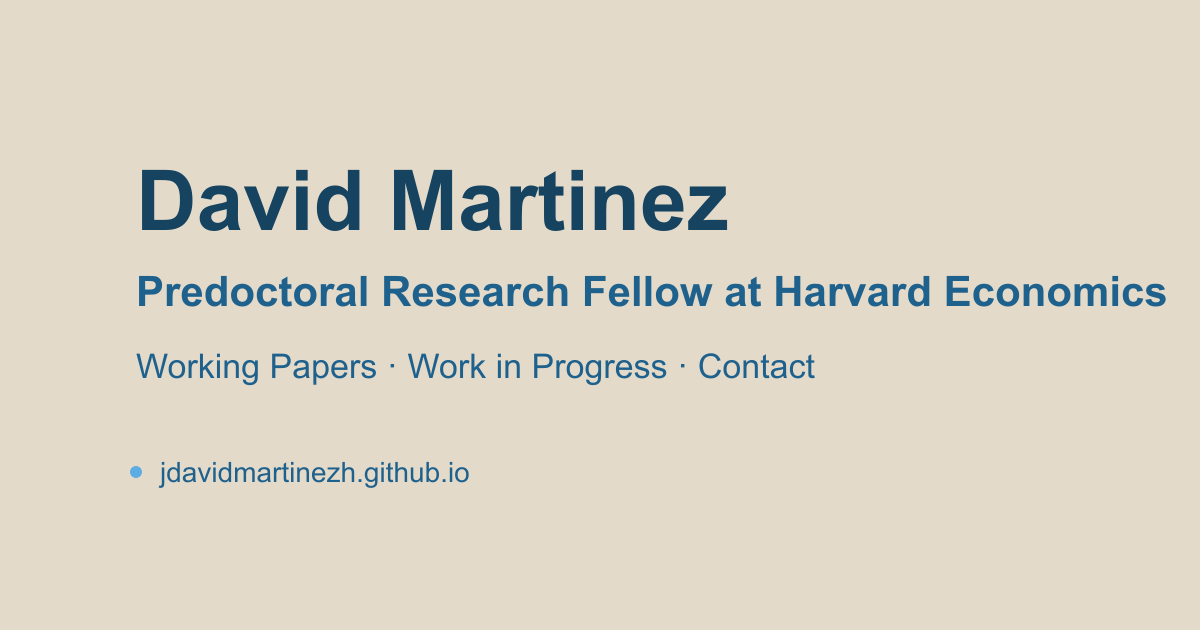
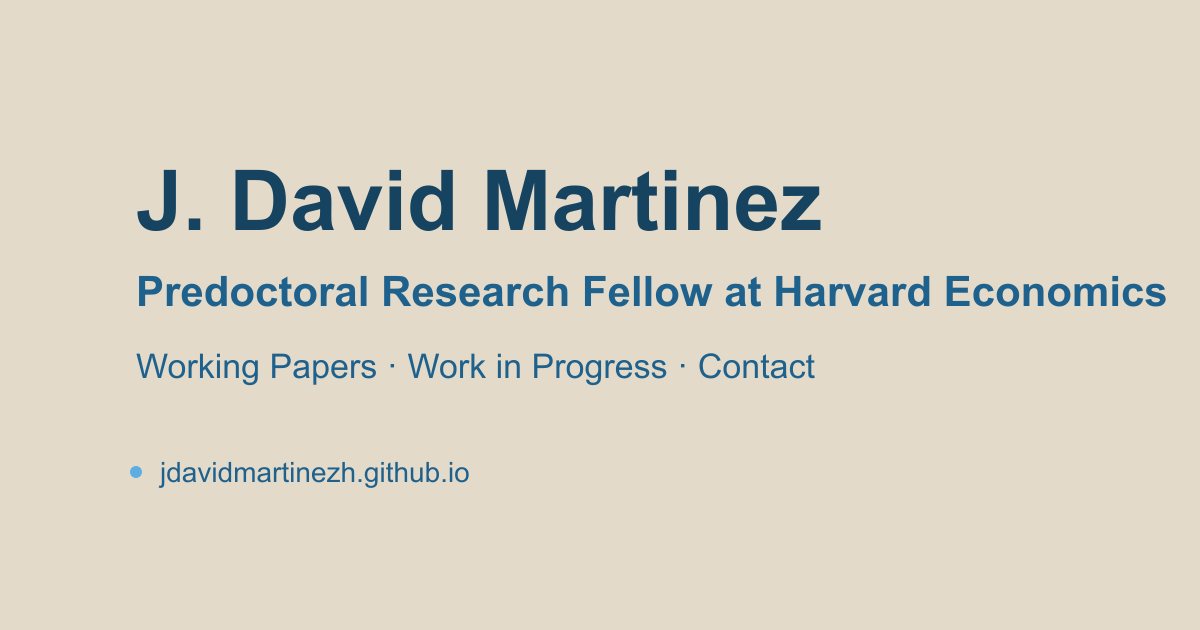
Refine profile content and add AMC figure to WIP

Changed region(s): [[0.0925, 0.2714, 0.6783, 0.3921]]

diff --git a/index.html b/index.html
@@ -5,15 +5,15 @@
     <meta name="viewport" content="width=device-width, initial-scale=1" />
     <meta
       name="description"
-      content="David Martinez, predoctoral research fellow at Harvard Economics. Working papers, work in progress, and contact."
+      content="J. David Martinez, predoctoral research fellow at Harvard Economics. Working papers, work in progress, and contact."
     />
-    <title>David Martínez</title>
+    <title>⛰ J. David Martínez</title>
     <link rel="canonical" href="https://jdavidmartinezh.github.io/" />
     <meta name="theme-color" content="#e3dac9" />
 
     <meta property="og:type" content="website" />
     <meta property="og:url" content="https://jdavidmartinezh.github.io/" />
-    <meta property="og:title" content="David Martínez" />
+    <meta property="og:title" content="J. David Martínez" />
     <meta
       property="og:description"
       content="Predoctoral Research Fellow at Harvard Economics. Working papers, work in progress, and contact."
@@ -21,11 +21,11 @@
     <meta property="og:image" content="https://jdavidmartinezh.github.io/assets/og-image.png" />
     <meta property="og:image:width" content="1200" />
     <meta property="og:image:height" content="630" />
-    <meta property="og:image:alt" content="David Martinez academic profile" />
-    <meta property="og:site_name" content="David Martínez" />
+    <meta property="og:image:alt" content="J. David Martinez academic profile" />
+    <meta property="og:site_name" content="J. David Martínez" />
 
     <meta name="twitter:card" content="summary_large_image" />
-    <meta name="twitter:title" content="David Martínez" />
+    <meta name="twitter:title" content="J. David Martínez" />
     <meta
       name="twitter:description"
       content="Predoctoral Research Fellow at Harvard Economics. Working papers, work in progress, and contact."
@@ -39,15 +39,15 @@
 
     <header class="site-header">
       <div class="masthead">
-        <h1>David Martínez</h1>
+        <h1>J. David Martínez</h1>
         <p class="title">
           Predoctoral Research Fellow at Harvard Economics
         </p>
         <div class="link-row">
           <!-- Replace assets/cv.pdf with your latest CV and keep the same filename. -->
           <a href="assets/RESUME_JDMH_PERSONAL_WEBSITE.pdf">CV</a>
-          <a class="jump-link" href="#working-papers">Working Papers ↓</a>
           <a class="jump-link" href="#work-in-progress">Work in Progress ↓</a>
+          <a class="jump-link" href="#working-papers">Working Papers ↓</a>
         </div>
       </div>
     </header>
@@ -68,21 +68,87 @@
             meta-analysis of experimental data.
           </p>
           <p>
-            I graduated from ITAM in Mexico City with a B.S. in Economics and
-            an M.A. in Economic Theory. In both cases with core coursework from
-            the economics, computer science and math departments.
-          </p>
-          <p>
             Past experience includes serving as a Research Fellow at
             <a class="about-link" href="https://www.povertyactionlab.org/person/martinez-hernandez" target="_blank" rel="noopener noreferrer">J-PAL LAC</a>,
             Deputy Director for Strategy and Experimentation at
             <a class="about-link" href="https://www.banorte.com/wps/portal/gfb/Home/investor-relations/about-banorte/our-history/" target="_blank" rel="noopener noreferrer">Banorte Financial Group</a>,
             and Senior Consultant (statistics) for the
             <a class="about-link" href="https://en.wikipedia.org/wiki/Instituto_del_Fondo_Nacional_de_la_Vivienda_para_los_Trabajadores" target="_blank" rel="noopener noreferrer">Mexican Housing Ministry</a>.
-            I am also a proud former co-owner of
-            <a class="about-link" href="https://share.google/ht6BUjtyrjr7ytWe9" target="_blank" rel="noopener noreferrer">a small seafood restaurant near my college</a>.
           </p>
+          <details class="paper-details">
+            <summary>More about me</summary>
+            <p>
+              I graduated from ITAM in Mexico City with a B.S. in Economics and
+              an M.A. in Economic Theory. In both cases with core coursework from
+              the economics, computer science and math departments. I am also a
+              proud former co-owner of
+              <a class="about-link" href="https://share.google/ht6BUjtyrjr7ytWe9" target="_blank" rel="noopener noreferrer">a small seafood restaurant near my college</a>.
+            </p>
+          </details>
 
+        </section>
+        <section id="work-in-progress" aria-labelledby="work-in-progress-title">
+          <h2 id="work-in-progress-title">Work in Progress</h2>
+
+          <article class="paper">
+            <div class="paper-main">
+              <h3>Adaptive Mondrian Calibration for Efficient Individual Treatment Effect Prediction Sets</h3>
+              <p class="paper-authors">J. David Martínez</p>
+              <p class="paper-meta">Work in progress. April 3, 2026.</p>
+              <p class="paper-summary">
+                We extend Lei and Candès (2021)
+                <em>Conformal Inference of Counterfactuals and Individual Treatment Effects</em>
+                by proposing an Adaptive Mondrian Calibration (AMC) of the conformity scores to improve the efficiency of their algorithm. AMC introduces a partition that separates experimental units into groups minimizing the within heterogeneity of the conformity scores, then calibrates the conformity score locally.
+              </p>
+              <p class="paper-summary">
+                Numerical studies show that AMC yields shorter intervals and improved decision-making by reallocating conservativeness from easier to harder instances. Under mild extra assumptions over the admissible partition learners and sample splitting, it preserves marginal coverage guarantees. Under additional regularity conditions, we establish an oracle result that formalizes why this happens.
+              </p>
+              <figure class="paper-figure">
+                <img
+                  src="assets/work_in_progress/amc_exact_nested_ite.png"
+                  alt="Line chart comparing LC Benchmark, AMC learned, and AMC oracle across difficulty levels using mean deployed ITE interval length."
+                  loading="lazy"
+                />
+                <figcaption>
+                  Exact nested ITE construction under heteroskedastic correlated outcomes (d = 100).
+                </figcaption>
+              </figure>
+              <details class="paper-details">
+                <summary>Full abstract</summary>
+                <p>
+                  Lei and Candès (2021) propose an algorithm to quantify uncertainty for individual treatment effects (ITEs). Under random treatment assignment, their exact procedure achieves finite-sample marginal coverage without requiring accurate nuisance estimation of potential outcomes, including for units outside the experiment. The exact procedure may be conservative relative to equally performing methods without coverage guarantees. We propose Adaptive Mondrian Calibration (AMC) of conformity scores to improve the efficiency of this exact algorithm.
+                </p>
+                <p>
+                  AMC partitions experimental units into groups that reduce within-group heterogeneity in conformity scores, then calibrates locally. Under mild additional assumptions on admissible partition learners and sample splitting, the method preserves marginal coverage guarantees. Numerical studies suggest shorter intervals and improved decision-making by reallocating conservativeness from easier to harder instances.
+                </p>
+                <p>
+                  Under additional regularity conditions, we establish an oracle result formalizing a tradeoff: AMC improves efficiency when the partition learner approximates latent conformity-score heterogeneity well enough to offset sample loss from within-group calibration.
+                </p>
+              </details>
+              <p class="paper-meta">Draft available upon requests.</p>
+            </div>
+          </article>
+
+          <article class="paper">
+            <div class="paper-main">
+              <h3>The Effect of Russian Misinformation and Propaganda</h3>
+              <div class="paper-links">
+                <a class="chip" href="assets/work_in_progress/Baltics_project_preview.pdf">
+                  Beamer slides (preview)
+                </a>
+              </div>
+              <p class="paper-authors">
+                <a href="https://sites.google.com/site/hlarreguy/" target="_blank" rel="noopener noreferrer">
+                  Horacio Larreguy
+                </a>,
+                J. David Martínez
+              </p>
+              <p class="paper-summary">
+                We exploit events that generated quasi-experimental variation in trust toward COVID-19 mRNA vaccines during the early vaccination campaigns in the Baltic region. We show that demographic groups historically targeted by Russian state influence operations experienced disproportionately lower vaccination uptake following these events. Combining quantitative estimates with qualitative evidence, we link this differential response to the presence and activity of Russian state propaganda and influence efforts in Europe.
+              </p>
+              <p class="paper-meta">Full beamer available upon request.</p>
+            </div>
+          </article>
         </section>
 
         <section id="working-papers" aria-labelledby="working-papers-title">
@@ -101,7 +167,7 @@
                 <a href="https://sites.google.com/site/hlarreguy/" target="_blank" rel="noopener noreferrer">
                   Horacio Larreguy
                 </a>,
-                David Martínez,
+                J. David Martínez,
                 <a href="https://www.juanfeliperiano.com/" target="_blank" rel="noopener noreferrer">
                   Juan Felipe Riaño
                 </a>,
@@ -142,31 +208,6 @@
                   subnational logic of authoritarian control.
                 </p>
               </details>
-            </div>
-          </article>
-        </section>
-
-        <section id="work-in-progress" aria-labelledby="work-in-progress-title">
-          <h2 id="work-in-progress-title">Work in Progress</h2>
-
-          <article class="paper">
-            <div class="paper-main">
-              <h3>The Effect of Russian Misinformation and Propaganda</h3>
-              <div class="paper-links">
-                <a class="chip" href="assets/work_in_progress/Baltics_project_preview.pdf">
-                  Beamer slides (preview)
-                </a>
-              </div>
-              <p class="paper-authors">
-                <a href="https://sites.google.com/site/hlarreguy/" target="_blank" rel="noopener noreferrer">
-                  Horacio Larreguy
-                </a>,
-                David Martínez
-              </p>
-              <p class="paper-summary">
-                We exploit events that generated quasi-experimental variation in trust toward COVID-19 mRNA vaccines during the early vaccination campaigns in the Baltic region. We show that demographic groups historically targeted by Russian state influence operations experienced disproportionately lower vaccination uptake following these events. Combining quantitative estimates with qualitative evidence, we link this differential response to the presence and activity of Russian state propaganda and influence efforts in Europe.
-              </p>
-              <p class="paper-meta">Full beamer available upon request.</p>
             </div>
           </article>
         </section>

diff --git a/style.css b/style.css
@@ -259,6 +259,26 @@ section h2::before {
   text-wrap: pretty;
 }
 
+.paper-figure {
+  margin: 10px 0 0;
+  max-width: 60ch;
+}
+
+.paper-figure img {
+  display: block;
+  width: 100%;
+  height: auto;
+  border: 1px solid var(--rule);
+  border-radius: 4px;
+}
+
+.paper-figure figcaption {
+  margin: 6px 0 0;
+  color: var(--muted);
+  font-size: 0.9rem;
+  line-height: 1.4;
+}
+
 .paper-details {
   margin: var(--space-1) 0 0;
 }
